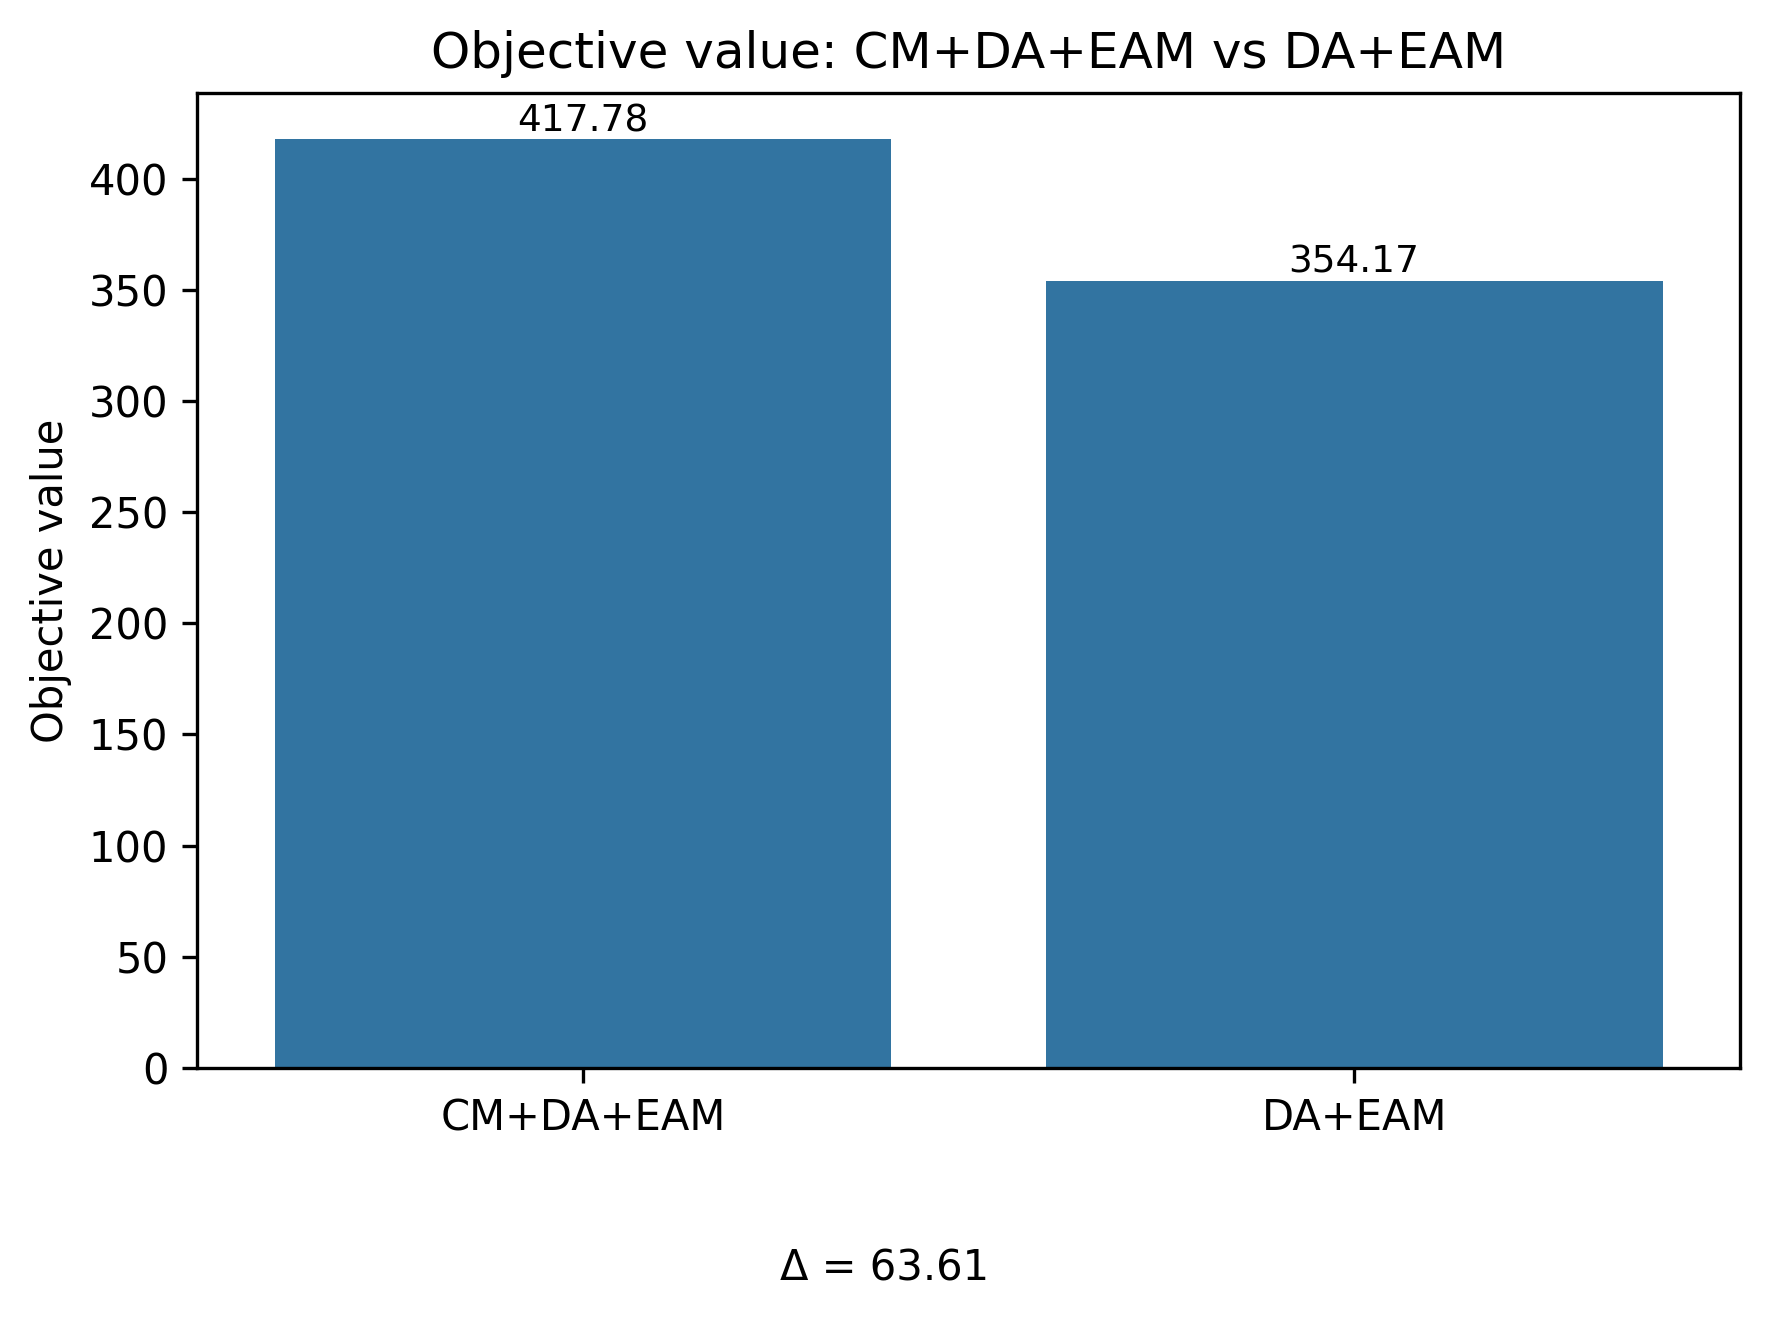
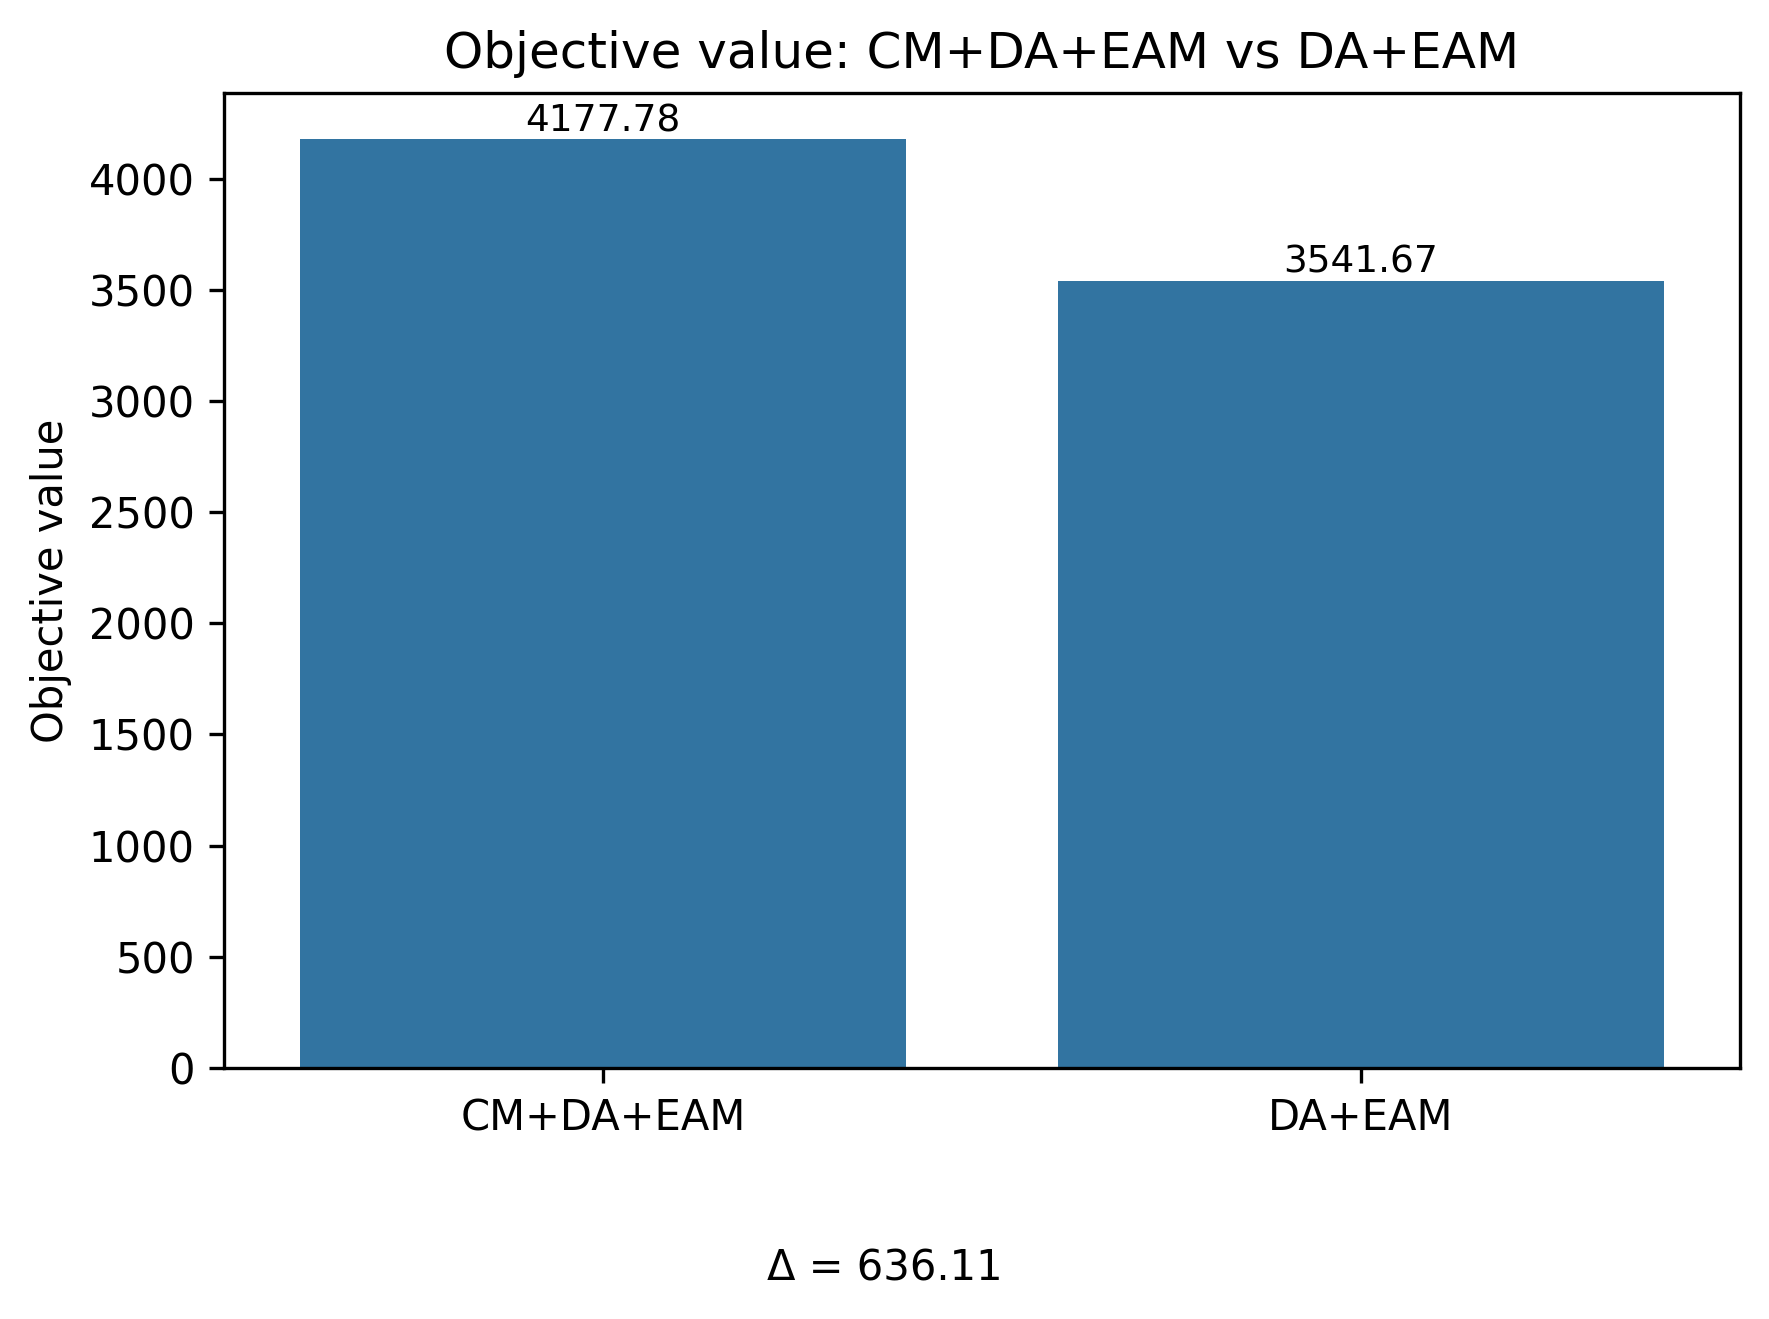
div

diff --git a/main.py b/main.py
@@ -7,57 +7,66 @@ import tree
 
 path = "./input_data.csv"
 det_policy_filename = "deterministic_policy.json"
-verbose = False
+verbose = True
 
 
 # Generate deterministic benchmark policy and save to file
-print("\n Running deterministic benchmark model to generate policy... \n")
-run_benchmark_model(path, det_policy_filename)
+def generate_deterministic_policy_file():
+    print("\n Running deterministic benchmark model to generate policy... \n")
+    run_benchmark_model(path, det_policy_filename)
 
 
 # Run the stochastic model
-print("\n Running stochastic model...\n")
-output_dict = run_model(path, verbose=verbose)
+def run_stochastic_model():
+    print("\n Running stochastic model...\n")
+    output_dict = run_model(path, verbose=verbose)
+    return output_dict
 
 # Run the stochastic model with the deterministic policy enforced
-print("\n Evaluating deterministic CM policy in stochastic model... \n")
-det_output_dict = run_model(path, det_policy_filename, evaluate_deterministic_policy=True, verbose=verbose)
+def run_deterministic_policy_evaluation():
+    print("\n Evaluating deterministic CM policy in stochastic model... \n")
+    det_output_dict = run_model(path, det_policy_filename, evaluate_deterministic_policy=True, verbose=verbose)
+    return det_output_dict
 
 
 # Run the stochastic model with only DA and EAM markets included
-print("\n Running stochastic model with only DA and EAM markets included...\n")
-da_eam_output_dict = run_model(path, only_da_and_eam=True, verbose=verbose)
-
-
-
+def run_da_eam_only_model():
+    print("\n Running stochastic model with only DA and EAM markets included...\n")
+    da_eam_output_dict = run_model(path, only_da_and_eam=True, verbose=verbose)
+    return da_eam_output_dict
 
 
 # -----------------------------------------------------------------
 # Deterministic CM policy vs Stochastic soulution
 # -----------------------------------------------------------------
 
-# objektivverdi
-plots.plot_model_type_objective_comparison(
-    output_dict,
-    det_output_dict,
-    save_path="fig_model_type_obj.png"
-)
+def generate_deterministic_policy_plots(output_dict, det_output_dict):
+    """
+    Genererer plots som sammenligner den stokastiske løsningen med løsningen
+    der en deterministisk CM-policy er påtvunget.
+    """
+    # objektivverdi
+    plots.plot_model_type_objective_comparison(
+        output_dict,
+        det_output_dict,
+        save_path="fig_model_type_obj.png"
+    )
 
-# CM-beslutninger (x, a, r)
-plots.plot_model_type_policy_comparison(
-    output_dict,
-    det_output_dict,
-    save_path="fig_model_type_policy.png"
-)
+    # CM-beslutninger (x, a, r)
+    plots.plot_model_type_policy_comparison(
+        output_dict,
+        det_output_dict,
+        save_path="fig_model_type_policy.png"
+    )
 
-# --- Forventet volum per marked Stochastic vs deterministic CM-policy ---
-plots.plot_expected_a(
-    output_dict,
-    det_output_dict,
-    label1="Stochastic solution", 
-    label2="Deterministic CM policy",
-    save_path="fig_model_type_expected_a.png"
-)
+    # --- Forventet volum per marked Stochastic vs deterministic CM-policy ---
+    plots.plot_expected_a(
+        output_dict,
+        det_output_dict,
+        label1="Stochastic solution", 
+        label2="Deterministic CM policy",
+        save_path="fig_model_type_expected_a.png"
+    )
 
 
 
@@ -65,38 +74,39 @@ plots.plot_expected_a(
 # CM+DA+EAM vs DA+EAM only
 # -----------------------------------------------------------------
 
-# Objektivverdi-plot
-plots.plot_market_attendance_objective_comparison(
-    output_dict,
-    da_eam_output_dict,
-    save_path="fig_market_attendance_obj_comparison.png"
-)
+def generate_da_eam_comparison_plots(output_dict, da_eam_output_dict):
+    # Objektivverdi-plot
+    plots.plot_market_attendance_objective_comparison(
+        output_dict,
+        da_eam_output_dict,
+        save_path="fig_market_attendance_obj_comparison.png"
+    )
 
-# Budstrategi-plot per marked
-plots.plot_market_attendance_expected_x(
-    output_dict,
-    da_eam_output_dict,
-    save_path="fig_market_attendance_expected_x.png"
-)
+    # Budstrategi-plot per marked
+    plots.plot_market_attendance_expected_x(
+        output_dict,
+        da_eam_output_dict,
+        save_path="fig_market_attendance_expected_x.png"
+    )
 
-# Budstrategi-plot per marked
-plots.plot_market_attendance_expected_r(
-    output_dict, 
-    da_eam_output_dict,
-    save_path="fig_market_attendance_expected_r.png"
-)
-
-
-# --- Forventet volum per marked Stochastic vs DA+EAM-only ---
-plots.plot_expected_a(
-    output_dict, 
-    da_eam_output_dict,
-    label1="Strategy: CM+DA+EAM",
-    label2="Strategy: DA+EAM",
-    save_path="fig_market_attendance_expected_a.png"
-)
+    # Budstrategi-plot per marked
+    plots.plot_market_attendance_expected_r(
+        output_dict, 
+        da_eam_output_dict,
+        save_path="fig_market_attendance_expected_r.png"
+    )
 
 
+    # --- Forventet volum per marked Stochastic vs DA+EAM-only ---
+    plots.plot_expected_a(
+        output_dict, 
+        da_eam_output_dict,
+        label1="Strategy: CM+DA+EAM",
+        label2="Strategy: DA+EAM",
+        save_path="fig_market_attendance_expected_a.png"
+    )
 
 
 
+if __name__ == "__main__":
+    run_stochastic_model()

diff --git a/utils.py b/utils.py
@@ -3,7 +3,7 @@ import pandas as pd
 import numpy as np
 
 def wind_speed_to_production_capacity(wind_speed):
-    prod_cap = wind_speed  # enkel mapping som eksempel
+    prod_cap = 10 * wind_speed  # enkel mapping som eksempel
     return prod_cap
 
 
@@ -80,7 +80,15 @@ def sort_nodes(node_set):
 
 
 def print_results(model, x, r, a, delta, d,
-                  U, V, W, M1, M2, M3):
+                  U, V, W, M1, M2, M3,
+                  max_u=3, max_v_per_u=3, max_w_per_v=3):
+    """
+    Skriver ut en komprimert oversikt over løsningen.
+
+    max_u         : maks antall u-noder (stage 2) å skrive ut (None = alle)
+    max_v_per_u   : maks antall v-noder per u (stage 3)
+    max_w_per_v   : maks antall w-noder per v (stage 4)
+    """
 
     if model.Status != GRB.OPTIMAL:
         print("Model not solved to optimality. Status:", model.Status)
@@ -90,58 +98,67 @@ def print_results(model, x, r, a, delta, d,
     print("   OPTIMAL SOLUTION")
     print("======================\n")
 
-    # Objective value
     print(f"Objective value: {model.ObjVal:,.4f}\n")
 
-    # ---------- Stage 2: CM (samme for alle u pga ikke-anticipativitet) ----------
-    u0 = next(iter(U))
-    print("--- Stage 2 (CM) – same for all u (by non-anticipativity) ---")
-    for m in M1:
-        print(
-            f"{m}: x={x[m,u0].X:.3f}, "
-            f"a={a[m,u0].X:.3f}, "
-            f"r={r[m,u0].X:.3f}, "
-            f"δ={int(round(delta[m,u0].X))}"
-        )
-    print()
+    # Sorter noder for ryddig utskrift
+    U_sorted = sort_nodes(U)
+    if max_u is not None:
+        U_sorted = U_sorted[:max_u]
 
-    # ---------- Stage 3: DA per v-node (sortert v1, v2, ..., vN) ----------
-    print("--- Stage 3 (DA) – per v ---")
-    max_v_per_u = 20  # juster hvis du vil se flere/færre
-    for u in U:
-        V_u = V[u]
-        V_sample = sort_nodes(V_u)[:max_v_per_u]
-    for v in sort_nodes(V_sample):
-
-        for m in M2:
+    # ---------- Stage 2: CM ----------
+    print("--- Stage 2 (CM) – non-anticipative across u ---")
+    for u in U_sorted:
+        print(f"u = {u}:")
+        for m in M1:
             print(
-                f"{m} in {v}: "
-                f"x={x[m,v].X:.3f}, "
-                f"a={a[m,v].X:.3f}, "
-                f"r={r[m,v].X:.3f}, "
-                f"δ={int(round(delta[m,v].X))}"
+                f"  {m}: x={x[m,u].X:.3f}, "
+                f"a={a[m,u].X:.3f}, "
+                f"r={r[m,u].X:.3f}, "
+                f"δ={int(round(delta[m,u].X))}"
             )
+        print()
     print()
 
-    # ---------- Stage 4: EAM – representative w per v ----------
-    print("--- Stage 4 (EAM) – representative child scenarios per v ---")
-    max_w_per_v = 2  # juster hvis du vil se flere/færre
+    # Vi lagrer hvilke v-er vi skriver ut per u, så vi kan bruke de samme i stage 4
+    V_samples = {}
 
-    for v in sort_nodes(V_sample):
-        W_v = W[v]
-        W_sample = sort_nodes(W_v)[:max_w_per_v]
+    # ---------- Stage 3: DA ----------
+    print("--- Stage 3 (DA) – per u and v ---")
+    for u in U_sorted:
+        V_u_sorted = sort_nodes(V[u])
+        V_sample = V_u_sorted[:max_v_per_u]
+        V_samples[u] = V_sample
 
-        print(f"\nParent scenario {v}:")
-        for w in W_sample:
-            for m in M3:
+        print(f"\nParent CM node u = {u}:")
+        for v in V_sample:
+            for m in M2:
                 print(
-                    f"  {m} in {w}: "
-                    f"x={x[m,w].X:.3f}, "
-                    f"a={a[m,w].X:.3f}, "
-                    f"r={r[m,w].X:.3f}, "
-                    f"δ={int(round(delta[m,w].X))}, "
-                    f"d={d[m,w].X:.3f}"
+                    f"  {m} in {v}: "
+                    f"x={x[m,v].X:.3f}, "
+                    f"a={a[m,v].X:.3f}, "
+                    f"r={r[m,v].X:.3f}, "
+                    f"δ={int(round(delta[m,v].X))}"
                 )
+    print()
+
+    # ---------- Stage 4: EAM ----------
+    print("--- Stage 4 (EAM) – child w scenarios per v ---")
+    for u in U_sorted:
+        for v in V_samples[u]:
+            W_v_sorted = sort_nodes(W[v])
+            W_sample = W_v_sorted[:max_w_per_v]
+
+            print(f"\nParent scenario v = {v} (from u = {u}):")
+            for w in W_sample:
+                for m in M3:
+                    print(
+                        f"  {m} in {w}: "
+                        f"x={x[m,w].X:.3f}, "
+                        f"a={a[m,w].X:.3f}, "
+                        f"r={r[m,w].X:.3f}, "
+                        f"δ={int(round(delta[m,w].X))}, "
+                        f"d={d[m,w].X:.3f}"
+                    )
     print()
 
     print("=============================================")

diff --git a/model.py b/model.py
@@ -59,22 +59,26 @@ def run_model(data_path, det_policy_file=None, evaluate_deterministic_policy=Fal
 
     epsilon = 1e-3
 
-    P_MAX_EAM_up   = 0  # maks pris for EAM up
-    P_MAX_EAM_down = 0    # maks pris for EAM down
+    x_mFRR_min = 10  # minimum budstørrelse i mFRR-markedet
+
+    r_MAX_EAM_up   = 0  # maks pris for EAM up
+    r_MAX_EAM_down = 0    # maks pris for EAM down
 
 
     # --- VARIABLES ---
 
     # x_ms: bid quantity
-    x = model.addVars(idx_ms, lb=0.0, name="x")
+    x = model.addVars(idx_ms, lb=0, vtype=GRB.INTEGER, name="x")
     # r_ms: bid price
     r = model.addVars(idx_ms, lb=0, name="r")
     # δ_ms: 1 hvis budet aktiveres
     delta = model.addVars(idx_ms, vtype=GRB.BINARY, name="delta")
     # a_ms: aktivert kvantum
-    a = model.addVars(idx_ms, lb=0.0, name="a")
+    a = model.addVars(idx_ms, lb=0, vtype=GRB.INTEGER, name="a")
     # d_mw: avvik fra aktivert kvantum i terminale scenarier
-    d = model.addVars(idx_mw, lb=0, name="d") 
+    d = model.addVars(idx_mw, lb=0, vtype=GRB.INTEGER, name="d")
+    # Binær variabel som indikerer om vi faktisk legger inn et bud (≠ 0)
+    y = model.addVars([(m, s) for (m, s) in idx_ms if m in (M_u + M_w)], vtype=GRB.BINARY, name="y")
 
 
     # --- OBJECTIVE FUNCTION ---
@@ -268,16 +272,37 @@ def run_model(data_path, det_policy_file=None, evaluate_deterministic_policy=Fal
             )
 
 
+    # Minimum bid quantity constraints for mFRR markets (CM_up and CM_down)
+    for (m, s) in y.keys():
+        # Hvis y[m,s] = 1  ->  x[m,s] ≥ MIN_Q
+        model.addConstr(
+            x[m, s] >= x_mFRR_min * y[m, s],
+            name=f"mFRR_min_lb[{m},{s}]"
+        )
+
+        # Hvis y_bid[m,s] = 0  ->  x[m,s] ≤ 0
+        # (og generelt x[m,s] ≤ BIGM hvis y_bid = 1)
+        model.addConstr(
+            x[m, s] <= BIGM * y[m, s],
+            name=f"mFRR_min_ub[{m},{s}]"
+        )
+
+
+
     # Ensuring that a realistic price is bid in the EAM markets
     for w in W_all:
         model.addConstr(
-            r["EAM_up", w] <= P_MAX_EAM_up,
+            r["EAM_up", w] <= r_MAX_EAM_up,
             name=f"max_price_EAMup_{w}"
         )
         model.addConstr(
-            r["EAM_down", w] <= P_MAX_EAM_down,
+            r["EAM_down", w] <= r_MAX_EAM_down,
             name=f"max_price_EAMdown_{w}"
         )
+
+
+
+    
 
 
     # --- EVALUATE DETERMINISTIC CM POLICY ---
